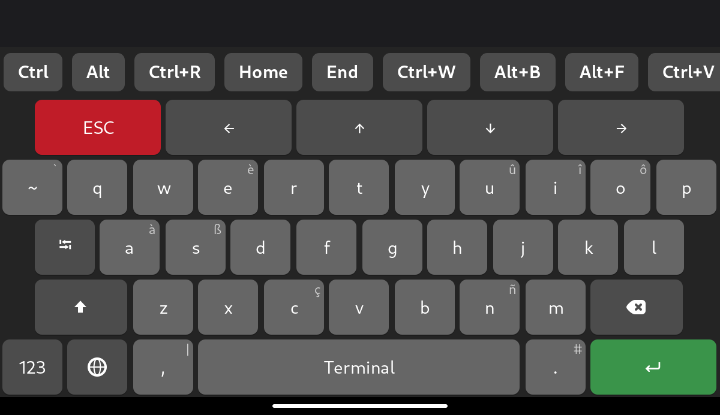
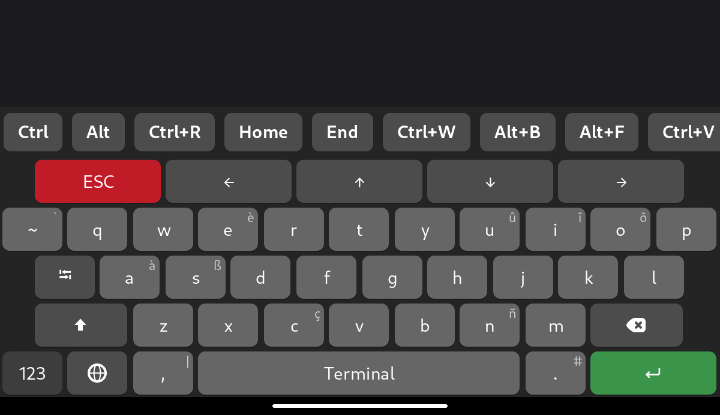
Support phosh-osk-stevia (0.48+)
0.48 renamed the keyboard: the binary is now /usr/bin/phosh-osk-stevia and the
GResource prefix moved from /mobi/phosh/osk-stub/ to /mobi/phosh/stevia/.

- generate_layouts.py: auto-detect the binary (stevia.distrib, stub.distrib, …)
  and the resource prefix instead of hardcoding the 0.47 names
- install_wrapper.sh: divert whichever binary is installed and overlay both
  prefixes, so the same files work with phosh-osk-stub and phosh-osk-stevia
- restore-stock-osk.sh: handle both names
- README: document both packages, the rename, and the 0.56/0.57 upstream changes
- screenshot: taken on phosh-osk-stevia 0.49.0

Tested on Droidian 101 with phosh 0.49.0 + phosh-osk-stevia 0.49.0 (fog, aarch64).

diff --git a/generate_layouts.py b/generate_layouts.py
@@ -1,35 +1,42 @@
 #!/usr/bin/env python3
-"""Regenerate phosh-osk-stub layouts (and the ESC key styling) for this phone.
+"""Regenerate phosh-osk-stub / phosh-osk-stevia layouts and the ESC styling.
 
-Reads every layout embedded in the real phosh-osk-stub binary, inserts a row
-with Left/Up/Down/Right keys at the top of every level, and writes the result to
+Reads every layout embedded in the real keyboard binary, inserts a row with
+Left/Up/Down/Right keys at the top of every level, and writes the result to
 ~/.local/share/phosh-osk-stub/layouts.
 
 The terminal layout's own ESC key is moved out of the second row into that
 arrow row: ESC comes first (left of the arrows) and is styled red through the
-`esc` style class.  The class is declared in a copy of the OSK's common.css in
-~/.local/share/phosh-osk-stub/stylesheet, which the wrapper picks up through
-G_RESOURCE_OVERLAYS as well.
+`esc` style class.  The class is declared in a copy of the keyboard's
+common.css in ~/.local/share/phosh-osk-stub/stylesheet, which the wrapper picks
+up through G_RESOURCE_OVERLAYS as well.
 
-The wrapper at /usr/bin/phosh-osk-stub makes the binary read those files
+Works with both names of the keyboard: phosh-osk-stub (resource prefix
+/mobi/phosh/osk-stub/, up to 0.47) and phosh-osk-stevia (/mobi/phosh/stevia/,
+0.48 and later).  The wrapper at the real binary path makes it read these files
 through G_RESOURCE_OVERLAYS.
 
-Run this again after a phosh-osk-stub package upgrade so the overlay picks up
-the new/changed layouts and stylesheet.
+Run this again after a phosh-osk-stub/stevia package upgrade so the overlay
+picks up the new/changed layouts and stylesheet.
 """
 import json
 import os
 import subprocess
 import sys
 
-CANDIDATES = ["/usr/bin/phosh-osk-stub.distrib", "/usr/bin/phosh-osk-stub"]
+CANDIDATES = [
+    "/usr/bin/phosh-osk-stevia.distrib",
+    "/usr/bin/phosh-osk-stub.distrib",
+    "/usr/bin/phosh-osk-stevia",
+    "/usr/bin/phosh-osk-stub",
+]
 BIN = next((p for p in CANDIDATES if os.path.exists(p)), CANDIDATES[-1])
 BASE = os.path.expanduser("~/.local/share/phosh-osk-stub")
 OUT = os.path.join(BASE, "layouts")
 OUT_STYLESHEET = os.path.join(BASE, "stylesheet")
 
-LAYOUTS_PREFIX = "/mobi/phosh/osk-stub/layouts/"
-STYLESHEET_PREFIX = "/mobi/phosh/osk-stub/stylesheet/"
+# Resource prefixes used by the keyboard over time.
+RESOURCE_PREFIXES = ("/mobi/phosh/stevia/", "/mobi/phosh/osk-stub/")
 
 ARROWS = [
     ("KEY_LEFT", "\u2190"),
@@ -45,7 +52,7 @@ ESC_LAYOUTS = {"terminal.json"}
 # rules (which is why the block is appended) so they win on equal specificity.
 ESC_CSS = """
 /* Local change: the terminal layout's ESC key sits left of the arrows and is
- * red (see generate_layouts.py / README-arrows.md). */
+ * red (see generate_layouts.py / README). */
 pos-key.esc {
   background: #c01c28;
   color: #ffffff;
@@ -121,20 +128,32 @@ def extract(resource):
     return subprocess.check_output(["gresource", "extract", BIN, resource])
 
 
-def list_resources(prefix, suffix=".json"):
-    out = subprocess.check_output(["gresource", "list", BIN], text=True)
+def resources():
+    return subprocess.check_output(["gresource", "list", BIN], text=True).splitlines()
+
+
+def find_prefix():
+    lines = resources()
+    for prefix in RESOURCE_PREFIXES:
+        if any(line.startswith(prefix + "layouts/") for line in lines):
+            return prefix
+    raise SystemExit(f"error: no layout resources found in {BIN}")
+
+
+def list_layouts(prefix):
+    out = resources()
     return sorted(
-        line[len(prefix):]
-        for line in out.splitlines()
-        if line.startswith(prefix) and line.endswith(suffix)
+        line.rsplit("/", 1)[1]
+        for line in out
+        if line.startswith(prefix + "layouts/") and line.endswith(".json")
     )
 
 
-def write_layouts():
-    names = list_resources(LAYOUTS_PREFIX)
+def write_layouts(prefix):
+    names = list_layouts(prefix)
     print(f"{len(names)} layouts")
     for name in names:
-        data = json.loads(extract(f"{LAYOUTS_PREFIX}{name}"))
+        data = json.loads(extract(f"{prefix}layouts/{name}"))
         if name in ESC_LAYOUTS and not strip_esc(data):
             print(f"warning: no ESC key found in {name}", file=sys.stderr)
         width = arrow_width(data)
@@ -149,8 +168,8 @@ def write_layouts():
     print(f"written to {OUT}")
 
 
-def write_stylesheet():
-    css = extract(f"{STYLESHEET_PREFIX}common.css").decode("utf-8")
+def write_stylesheet(prefix):
+    css = extract(f"{prefix}stylesheet/common.css").decode("utf-8")
     if "pos-key.esc" not in css:
         css = css.rstrip("\n") + "\n" + ESC_CSS
     path = os.path.join(OUT_STYLESHEET, "common.css")
@@ -163,8 +182,10 @@ def main():
     os.makedirs(OUT, exist_ok=True)
     os.makedirs(OUT_STYLESHEET, exist_ok=True)
     print(f"binary: {BIN}")
-    write_layouts()
-    write_stylesheet()
+    prefix = find_prefix()
+    print(f"resource prefix: {prefix}")
+    write_layouts(prefix)
+    write_stylesheet(prefix)
 
 
 if __name__ == "__main__":

diff --git a/README.md b/README.md
@@ -1,8 +1,9 @@
 # Arrow keys (and a red ESC) for the Droidian on-screen keyboard
 
-Droidian's on-screen keyboard is **phosh-osk-stub** (Phosh's OSK). Its layouts are
-JSON files compiled into the binary as GResource data, and it ships without
-cursor keys — painful when editing a command line on a phone.
+Droidian's on-screen keyboard is **phosh-osk-stub**, renamed **phosh-osk-stevia**
+in 0.48 (upstream: [World/Phosh/stevia](https://gitlab.gnome.org/World/Phosh/stevia)).
+Its layouts are JSON files compiled into the binary as GResource data, and it
+ships without cursor keys — painful when editing a command line on a phone.
 
 This adds a row of arrow keys to **every** layout:
 
@@ -44,12 +45,19 @@ git clone https://github.com/eliasggs/droidian-osk-arrow-keys
 cd droidian-osk-arrow-keys
 sudo bash install_wrapper.sh     # dpkg-divert + G_RESOURCE_OVERLAYS wrapper
 python3 generate_layouts.py      # writes ~/.local/share/phosh-osk-stub/{layouts,stylesheet}
-pkill -f '^/usr/bin/phosh-osk-stub'   # phosh restarts the keyboard
+pkill -f 'phosh-osk-stub|phosh-osk-stevia'   # phosh restarts the keyboard
 ```
 
 `generate_layouts.py` must run as the **user** (it writes under `$HOME`), the
 wrapper install must run as **root**. The keyboard comes back on its own when
 phosh restarts it; otherwise log out/in or reboot.
+
+Both scripts detect the keyboard that is installed:
+
+| Package | Binary | Resources |
+| --- | --- | --- |
+| `phosh-osk-stub` ≤ 0.47 | `/usr/bin/phosh-osk-stub` | `/mobi/phosh/osk-stub/…` |
+| `phosh-osk-stevia` ≥ 0.48 | `/usr/bin/phosh-osk-stevia` | `/mobi/phosh/stevia/…` |
 
 To remove it again:
 
@@ -64,7 +72,7 @@ bash restore-stock-osk.sh
    (default, shift, symbols, symbols+shift) and writes the modified JSON to
    `~/.local/share/phosh-osk-stub/layouts/`.
 
-   The row goes to the top on purpose: phosh-osk-stub appends its shift/backspace
+   The row goes to the top on purpose: the keyboard appends its shift/backspace
    row and its `123`/globe/space/enter row to the **last two** rows of every
    level, so inserting anywhere else breaks those special rows.
 
@@ -82,15 +90,15 @@ bash restore-stock-osk.sh
    }
    ```
 
-   phosh-osk-stub only knows the CSS classes compiled into it (`sys`, `toggle`,
+   The keyboard only knows the CSS classes compiled into it (`sys`, `toggle`,
    `return`), so a local class is needed for the red key. The block is appended
    so it wins over the stock `pos-key` and `pos-key.pressed` rules.
 
-3. `/usr/bin/phosh-osk-stub` is replaced by a small wrapper; the real binary is
-   kept at `/usr/bin/phosh-osk-stub.distrib` via `dpkg-divert`. The wrapper
-   appends the two overlay prefixes to `G_RESOURCE_OVERLAYS`, so the binary
-   reads the generated JSON and CSS instead of the embedded copies. A package
-   upgrade lands the new binary at `.distrib` and the wrapper keeps working.
+3. The real binary is replaced by a small wrapper; it is kept next to it as
+   `<binary>.distrib` via `dpkg-divert`. The wrapper appends the overlay
+   prefixes (both the `stevia` and the `osk-stub` resource paths, so the same
+   files work with either package) to `G_RESOURCE_OVERLAYS`. A package upgrade
+   lands the new binary at `.distrib` and the wrapper keeps working.
 
    GResource overlays fall back to the built-in resource when a file is missing
    from the overlay directory, so only `common.css` is generated: the stock
@@ -110,18 +118,20 @@ bash restore-stock-osk.sh
 
 ## Notes
 
-* Tested on Droidian 101 with `phosh-osk-stub` 0.49.0 and phosh 0.47.0
-  (Xiaomi "fog", aarch64). The generator reads the layouts from the installed
-  binary, so other versions are fine as long as the layout JSON format and the
-  `G_RESOURCE_OVERLAYS` mechanism stay the same.
-* After a `phosh-osk-stub` upgrade, re-run `python3 generate_layouts.py` so the
+* Tested on Droidian 101 (Xiaomi "fog", aarch64) with `phosh` 0.49.0 and
+  `phosh-osk-stevia` 0.49.0 (built from `droidian/phosh-osk-stub`,
+  `group/next/phosh-0.49`), and earlier with `phosh-osk-stub` 0.47.0.
+* After a keyboard package upgrade, re-run `python3 generate_layouts.py` so the
   overlay matches the new layouts and stylesheet.
-* The keyboard is phosh-osk-stub; this does nothing on Squeekboard setups.
+* Upstream 0.56 added cursor keys as buttons in the terminal *shortcuts bar* and
+  0.57 moved `tab`/`esc` to the completion bar; this mod keeps a full arrow row
+  on every layout instead. If you run those versions the ESC branch finds no
+  `KEY_ESC` and only adds the arrows (it prints a warning).
 * The arrow keys talk the normal virtual-keyboard protocol (`KEY_LEFT`,
   `KEY_UP`, `KEY_DOWN`, `KEY_RIGHT`), and the moved ESC still sends `KEY_ESC` —
   the modification only changes the JSON layout, never the key codes.
 
 ## License
 
-GPL-3.0-or-later, the same license as phosh-osk-stub: the generated layouts are
+GPL-3.0-or-later, the same license as the keyboard: the generated layouts are
 derived from the layout resources shipped in its binary.
